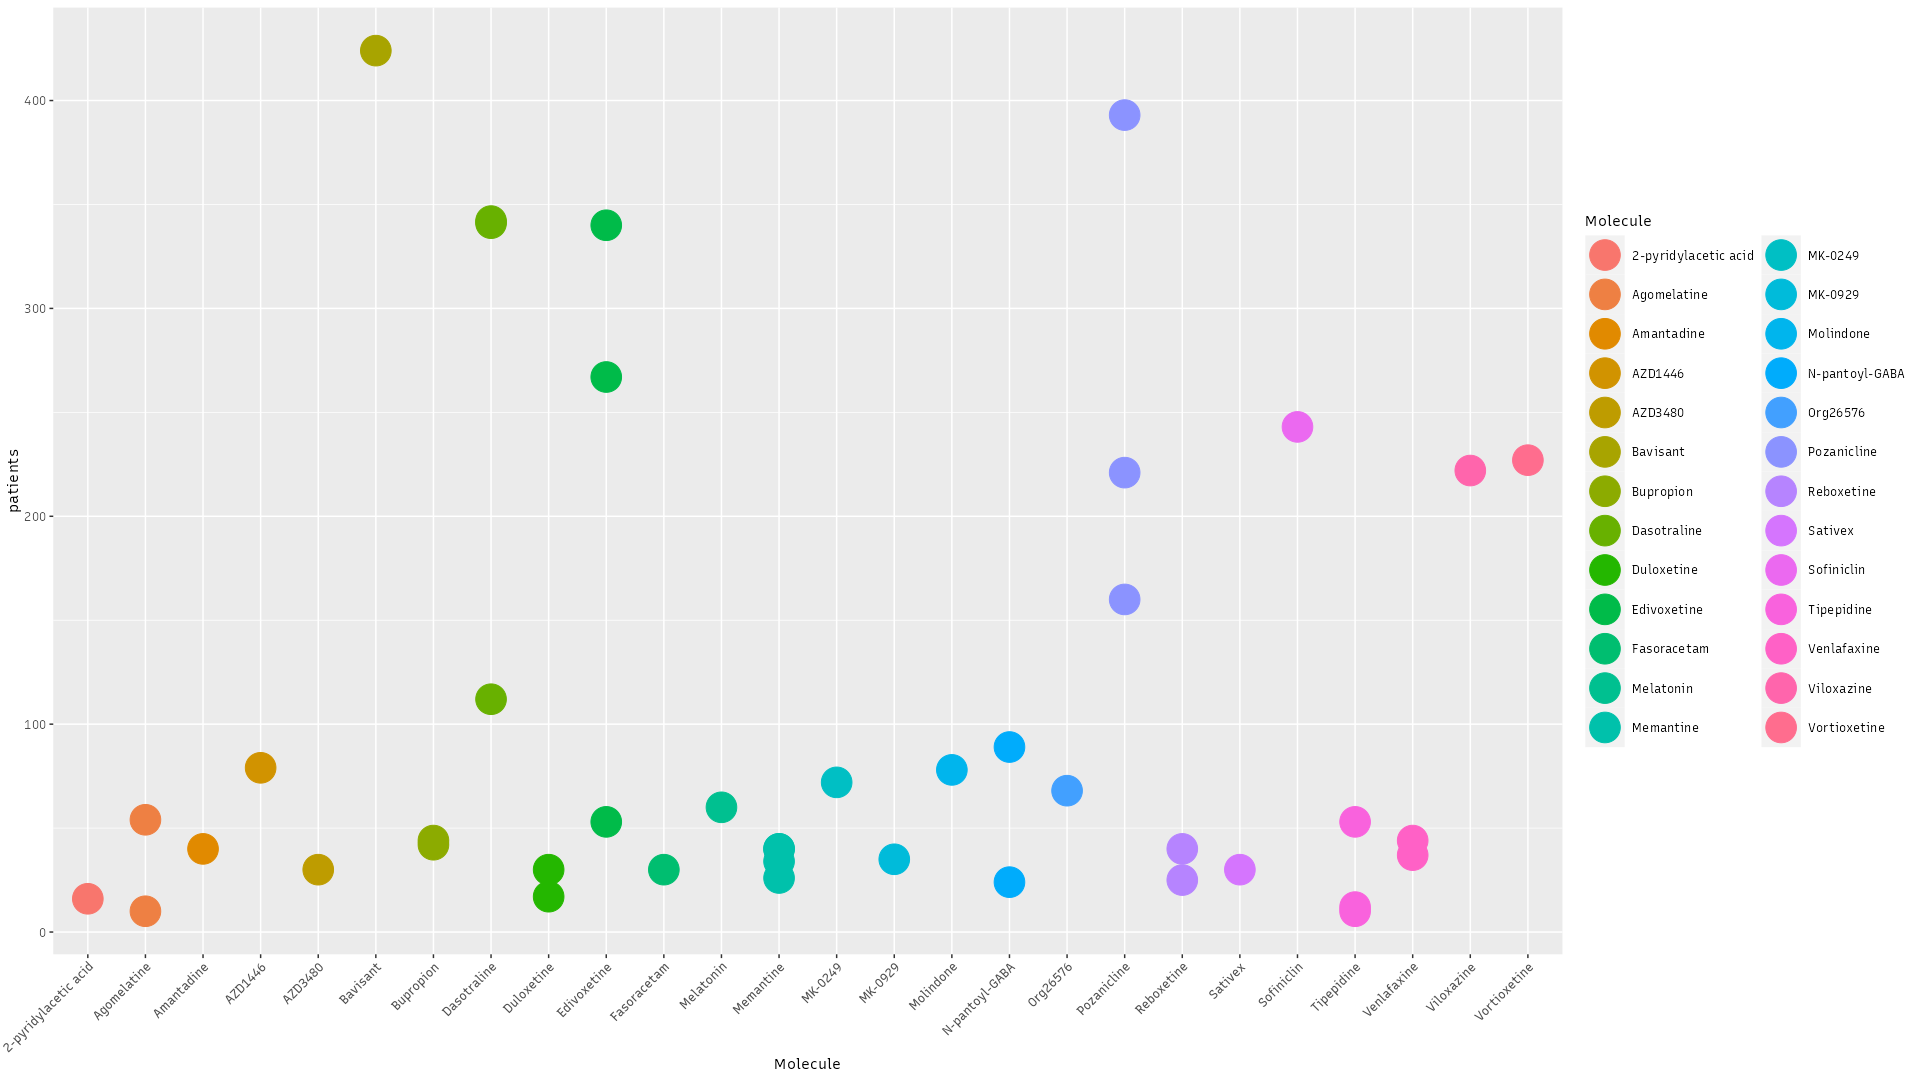
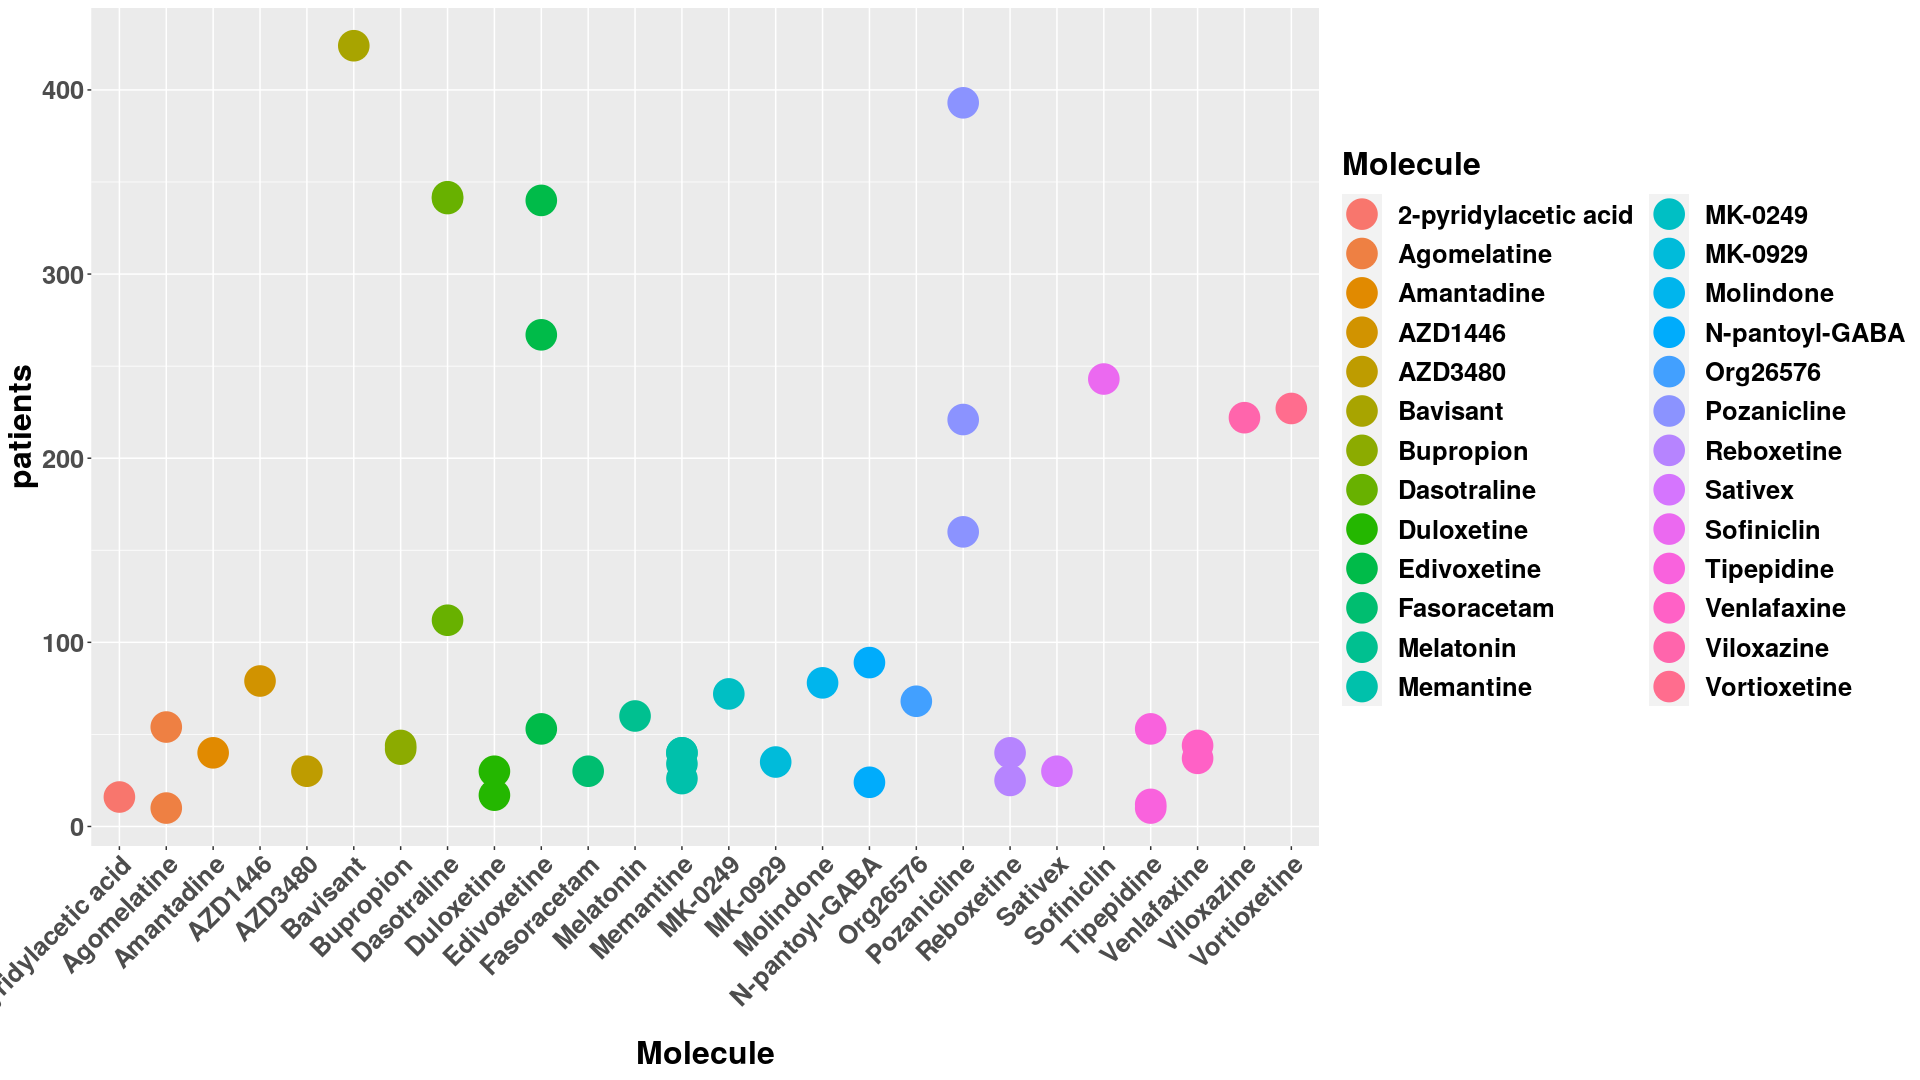
update for linkedin?

diff --git a/content/snippets/adhd.html b/content/snippets/adhd.html
@@ -26,8 +26,8 @@
 <li><a href="#/slide-2">2. Literature Review</a></li>
 <li><a href="#/slide-3">3. R/Python Codes</a></li>
 <li><a href="#/slide-4">4. Bibliography</a></li>
-<!-- <li><a href="#/slide-5">5. Thank you for your Attention!</a></li> -->
-<li><a href="#/slide-5">5. Glossary</a></li>
+<li><a href="#/slide-5">5. Thank you for your Attention!</a></li>
+<li><a href="#/slide-6">6. Glossary</a></li>
 </ul>
 </div>
 </div>
@@ -138,7 +138,7 @@
 Significant genetic correlations between ADHD and other traits reveal overlap of genetic risk factors for ADHD across several groups of traits
 </p>
 
-<div id="org40dcdf3" class="figure">
+<div id="orgc485ab3" class="figure">
 <p><img src="../images/adhd-gen-cor.jpg" alt="adhd-gen-cor.jpg" height="960px" width="900px" />
 </p>
 </div>
@@ -310,7 +310,7 @@ Z-scores are plotted for the 56 genes significantly associated with ADHD. Signif
 
 </ul>
 
-<div id="orgc84e137" class="figure">
+<div id="orgfce9de9" class="figure">
 <p><img src="../images/twas-56g.webp" alt="twas-56g.webp" height="960px" />
 </p>
 </div>
@@ -360,7 +360,7 @@ The upper and lower blue lines represent the Bonferroni corrected significance t
 </ul>
 
 
-<div id="orgb8f216a" class="figure">
+<div id="orgff315ca" class="figure">
 <p><img src="../images/mice-human-exon11.jpg" alt="mice-human-exon11.jpg" height="260px" align="left" />
 </p>
 <p><span class="figure-number">Figure 1: </span>(A) Schematic representation of mouse Cry1 protein (top), genomic structure (middle), and aa sequence encoded by exon 11 of human or mouse Cry1 gene (bottom).</p>
@@ -390,8 +390,8 @@ adhd <span style="color: #00bcff;">&lt;-</span> <span style="color: #feacd0;">re
 <span style="color: #a8a8a8; font-style: italic;">## </span><span style="color: #a8a8a8; font-style: italic;">no of pateints in y-axis</span>
 myplot <span style="color: #00bcff;">&lt;-</span> <span style="color: #feacd0;">ggplot</span><span style="color: #ffffff;">(</span>adhd, <span style="color: #feacd0;">aes</span><span style="color: #ff62d4;">(</span>x <span style="color: #00bcff;">=</span> Molecule, y <span style="color: #00bcff;">=</span> patients, color <span style="color: #00bcff;">=</span> Molecule<span style="color: #ff62d4;">)</span><span style="color: #ffffff;">)</span> <span style="color: #00bcff;">+</span> <span style="color: #feacd0;">geom_point</span><span style="color: #ffffff;">(</span>size <span style="color: #00bcff;">=</span> <span style="color: #6ae4b9; font-weight: bold;">10</span><span style="color: #ffffff;">)</span>
 
-<span style="color: #a8a8a8; font-style: italic;">## </span><span style="color: #a8a8a8; font-style: italic;">rotate the name to not overlap</span>
-myplot <span style="color: #00bcff;">+</span> <span style="color: #feacd0;">theme</span><span style="color: #ffffff;">(</span>axis.text.x <span style="color: #00bcff;">=</span> <span style="color: #feacd0;">element_text</span><span style="color: #ff62d4;">(</span>angle <span style="color: #00bcff;">=</span> <span style="color: #6ae4b9; font-weight: bold;">45</span>, vjust <span style="color: #00bcff;">=</span> <span style="color: #6ae4b9; font-weight: bold;">1</span>, hjust <span style="color: #00bcff;">=</span> <span style="color: #6ae4b9; font-weight: bold;">1</span><span style="color: #ff62d4;">)</span><span style="color: #ffffff;">)</span>
+<span style="color: #a8a8a8; font-style: italic;">## </span><span style="color: #a8a8a8; font-style: italic;">rotate the name to not overlap and increase font size</span>
+myplot <span style="color: #00bcff;">+</span> <span style="color: #feacd0;">theme</span><span style="color: #ffffff;">(</span>axis.text.x <span style="color: #00bcff;">=</span> <span style="color: #feacd0;">element_text</span><span style="color: #ff62d4;">(</span>angle <span style="color: #00bcff;">=</span> <span style="color: #6ae4b9; font-weight: bold;">45</span>, vjust <span style="color: #00bcff;">=</span> <span style="color: #6ae4b9; font-weight: bold;">1</span>, hjust <span style="color: #00bcff;">=</span> <span style="color: #6ae4b9; font-weight: bold;">1</span><span style="color: #ff62d4;">)</span>, text <span style="color: #00bcff;">=</span> <span style="color: #feacd0;">element_text</span><span style="color: #ff62d4;">(</span>size <span style="color: #00bcff;">=</span> <span style="color: #6ae4b9; font-weight: bold;">23</span>, face <span style="color: #00bcff;">=</span> <span style="color: #79a8ff;">"bold"</span><span style="color: #ff62d4;">)</span><span style="color: #ffffff;">)</span>
 
 <span style="color: #a8a8a8; font-style: italic;">## </span><span style="color: #a8a8a8; font-style: italic;">save the plot to png file with proper aspect ratio</span>
 <span style="color: #feacd0;">ggsave</span><span style="color: #ffffff;">(</span><span style="color: #79a8ff;">"pat-mol.png"</span>, width <span style="color: #00bcff;">=</span> <span style="color: #6ae4b9; font-weight: bold;">1920</span>, height <span style="color: #00bcff;">=</span> <span style="color: #6ae4b9; font-weight: bold;">1080</span>,  units <span style="color: #00bcff;">=</span> <span style="color: #79a8ff;">"px"</span>, dpi <span style="color: #00bcff;">=</span> <span style="color: #6ae4b9; font-weight: bold;">100</span><span style="color: #ffffff;">)</span>
@@ -401,7 +401,7 @@ myplot <span style="color: #00bcff;">+</span> <span style="color: #feacd0;">them
 </section>
 <section>
 
-<div id="org3d1ce4a" class="figure">
+<div id="org3020ada" class="figure">
 <p><img src="../images/pat-mol.png" alt="pat-mol.png" />
 </p>
 </div>
@@ -427,6 +427,9 @@ myplot <span style="color: #00bcff;">+</span> <span style="color: #feacd0;">them
 <span style="color: #00d3d0;">x</span> = adhd<span style="color: #ffffff;">[</span><span style="color: #79a8ff;">'Molecule'</span><span style="color: #ffffff;">]</span>
 <span style="color: #00d3d0;">y</span> = adhd<span style="color: #ffffff;">[</span><span style="color: #79a8ff;">'patients'</span><span style="color: #ffffff;">]</span>
 
+<span style="color: #a8a8a8; font-style: italic;"># </span><span style="color: #a8a8a8; font-style: italic;">increase font size</span>
+plt.rcParams.update<span style="color: #ffffff;">(</span><span style="color: #ff62d4;">{</span><span style="color: #79a8ff;">'font.size'</span>: 11, <span style="color: #79a8ff;">'font.weight'</span>: <span style="color: #79a8ff;">'bold'</span><span style="color: #ff62d4;">}</span><span style="color: #ffffff;">)</span>
+
 <span style="color: #a8a8a8; font-style: italic;"># </span><span style="color: #a8a8a8; font-style: italic;">make a plot</span>
 plt.plot<span style="color: #ffffff;">(</span>x, y<span style="color: #ffffff;">)</span>
 
@@ -438,10 +441,8 @@ plt.title<span style="color: #ffffff;">(</span><span style="color: #79a8ff;">"Nu
 plt.xlabel<span style="color: #ffffff;">(</span><span style="color: #79a8ff;">'Drug Molecules'</span><span style="color: #ffffff;">)</span>
 plt.ylabel<span style="color: #ffffff;">(</span><span style="color: #79a8ff;">'Patients count'</span><span style="color: #ffffff;">)</span>
 
-plt.legend<span style="color: #ffffff;">()</span>
-
 <span style="color: #a8a8a8; font-style: italic;"># </span><span style="color: #a8a8a8; font-style: italic;">saving the final plot</span>
-plt.savefig<span style="color: #ffffff;">(</span><span style="color: #79a8ff;">'pat-mol2.png'</span>, dpi=100<span style="color: #ffffff;">)</span>
+plt.savefig<span style="color: #ffffff;">(</span><span style="color: #79a8ff;">'pat-mol2.png'</span><span style="color: #ffffff;">)</span>
 
 <span style="color: #a8a8a8; font-style: italic;"># </span><span style="color: #a8a8a8; font-style: italic;">shows the final plot when run</span>
 plt.show<span style="color: #ffffff;">()</span>
@@ -451,7 +452,7 @@ plt.show<span style="color: #ffffff;">()</span>
 </section>
 <section>
 
-<div id="org3d083ee" class="figure">
+<div id="orgf696868" class="figure">
 <p><img src="../images/pat-mol2.png" alt="pat-mol2.png" />
 </p>
 </div>
@@ -494,7 +495,7 @@ acgt <span style="color: #00bcff;">&lt;-</span> <span style="color: #feacd0;">gg
 </section>
 <section>
 
-<div id="orgb8c0ef9" class="figure">
+<div id="orgd03e199" class="figure">
 <p><img src="../images/base-count.png" alt="base-count.png" />
 </p>
 </div>
@@ -622,7 +623,7 @@ div.legalese {
 Reveal.initialize({
 
 controls: true,
-progress: false,
+progress: true,
 history: false,
 center: true,
 slideNumber: 'c',
